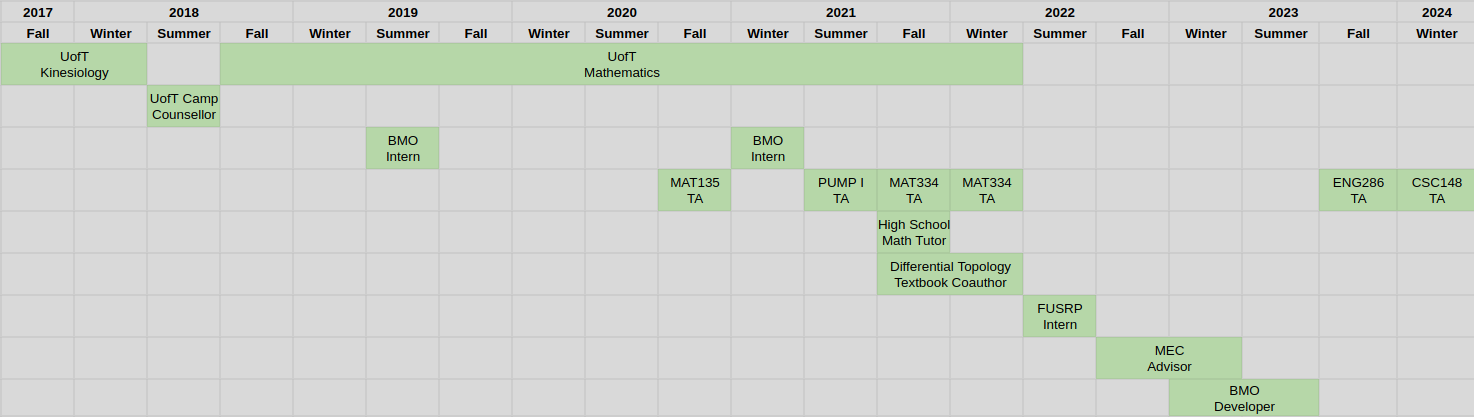
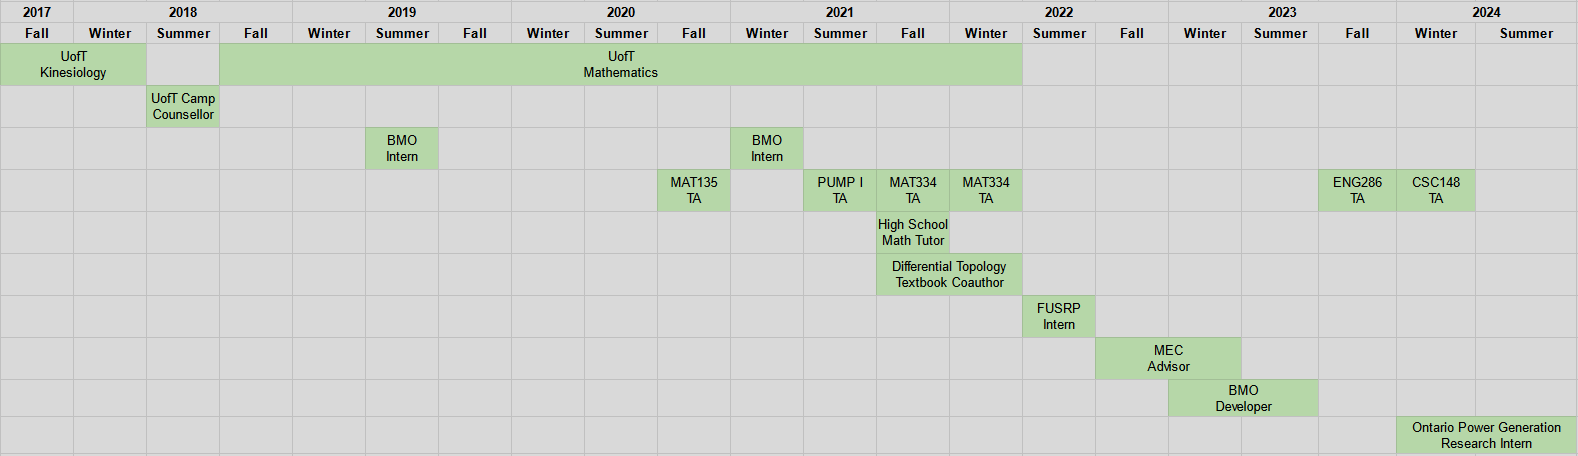
Add OPG

diff --git a/index.html b/index.html
@@ -120,6 +120,9 @@
 				<p>
 					On March 22, 2023, he again decided to stay in Toronto to study <a href="https://mscac.utoronto.ca/concentrations/applied-math">applied mathematics</a> at UofT in the MScAC program.
 				</p>
+				<p>
+					Miraculously, in the spring of 2024, he finally <a href="https://en.wikipedia.org/wiki/Leaving_the_nest">moved out</a> of his parents' basement. There, he has slowly developed a new branch of his <a href="https://en.wikipedia.org/wiki/Adulting">adulting</a> skill tree.
+				</p>
 				<div class="figure-container figure-center  container-background container-border" style="width:90%;">
 					<a href="images/family_tree.png"><img src="images/family_tree.png" alt="Nathan's family tree." class="figure-image"></a>
 					<figcaption class="figure-caption">Gurrin-Smith's family tree.</figcaption>
@@ -830,10 +833,10 @@
 				<h4 class="heading">MScAC (2023-2024)</h4>
 				<div class="figure-container figure-right container-background container-border" style="width:30%;">
 					<a href="images/mug_shot.jpg"><img src="images/mug_shot.jpg" alt="A mug shot of Nathan." class="figure-image"></a>
-					<figcaption class="figure-caption">Gurrin-Smith's MScAC mug shot .</figcaption>
+					<figcaption class="figure-caption">Gurrin-Smith's MScAC mug shot.</figcaption>
 				</div>
 				<p>
-					In the fall of 2023, Gurrin-Smith began his <a href="https://en.wikipedia.org/wiki/Master's_degree">master's degree</a> in the <a href="https://mscac.utoronto.ca/">Master of Science in Applied Computing</a> (MScAC) program at UofT. He took courses in <a href="https://en.wikipedia.org/wiki/Computer_graphics">computer graphics</a>, <a href="https://en.wikipedia.org/wiki/Computational_social_science">computational social science</a>, <a href="https://en.wikipedia.org/wiki/Deep_learning">deep learning</a>, and <a href="https://en.wikipedia.org/wiki/Mathematical_finance">mathematical finance</a>. While there, he worked as a TA in <a href="https://artsci.calendar.utoronto.ca/course/eng286h1">ENG286: Literature and Data</a> and <a href="https://artsci.calendar.utoronto.ca/course/csc148h1">CSC148: Introduction to Computer Science</a>. He got involved with the MScAC program by organizing the <a class="not-found internal-link" href="page_not_found.html?title=MScAC_Snacks_and_Board_Games">MScAC Snacks and Board Games</a> student-led event with his co-organizer <a class="not-found internal-link" href="page_not_found.html?title=Rob_Redelmeier">Rob Redelmeier</a>. He also worked on improving the working conditions of the TAs and CIs in the <a href="https://web.cs.toronto.edu/">department of computer science</a> (DCS) by becoming a DCS <a href="https://en.wikipedia.org/wiki/Union_representative">steward</a> for the TA/CI <a href="https://en.wikipedia.org/wiki/Trade_union">union</a>, <a href="https://en.wikipedia.org/wiki/CUPE_3902">CUPE 3902</a> <a href="https://cupe3902.org/unit-1/">Unit 1</a>.
+					In the fall of 2023, Gurrin-Smith began his <a href="https://en.wikipedia.org/wiki/Master's_degree">master's degree</a> in the <a href="https://mscac.utoronto.ca/">Master of Science in Applied Computing</a> (MScAC) program at UofT. He took courses in <a href="https://en.wikipedia.org/wiki/Computer_graphics">computer graphics</a>, <a href="https://en.wikipedia.org/wiki/Computational_social_science">computational social science</a>, <a href="https://en.wikipedia.org/wiki/Deep_learning">deep learning</a>, and <a href="https://en.wikipedia.org/wiki/Mathematical_finance">mathematical finance</a>. While there, he worked as a TA in <a href="https://artsci.calendar.utoronto.ca/course/eng286h1">ENG286: Literature and Data</a> and <a href="https://artsci.calendar.utoronto.ca/course/csc148h1">CSC148: Introduction to Computer Science</a>. He got involved with the MScAC program by organizing the <a class="not-found internal-link" href="page_not_found.html?title=MScAC_Snacks_and_Board_Games">MScAC Snacks and Board Games</a> student-led event with his co-organizer <a class="not-found internal-link" href="page_not_found.html?title=Rob_Redelmeier">Rob Redelmeier</a>. He also worked on improving the working conditions of the TAs and CIs in the <a href="https://web.cs.toronto.edu/">department of computer science</a> (DCS) by becoming a DCS <a href="https://en.wikipedia.org/wiki/Union_representative">steward</a> for the TA/CI <a href="https://en.wikipedia.org/wiki/Trade_union">union</a>, <a href="https://en.wikipedia.org/wiki/CUPE_3902">CUPE 3902</a> <a href="https://cupe3902.org/unit-1/">Unit 1</a>. In May 2024, he joined <a href="https://en.wikipedia.org/wiki/Ontario_Power_Generation">Ontario Power Generation</a> for his <a href="https://mscac.utoronto.ca/prospective-students/">applied research internship</a>.
 				</p>
 				<h5 class="heading">Courses [<input class="link-button" id="mscac-courses-button" type="button" value="show" onclick='collapse("mscac-courses-wrapper","mscac-courses-button", "hide", "show")'>]</h5>
 				<!-- {{{ MScAC Courses -->
@@ -902,6 +905,9 @@
 				</p>
 				<p>
 					After finishing school, Gurrin-Smith took a <a href="https://en.wikipedia.org/wiki/Gap_year">gap year</a>. At the start of this year, he researched mathematics in the Fields Undergraduate Summer Research Program at the <a href="https://en.wikipedia.org/wiki/Fields_Institute">Fields Institute</a>. There, he worked with <a href="https://physiology.utoronto.ca/faculty/maurizio-de-pitta">Professor Maurizio De Pitta&#768;</a>, graduate student <a href="https://underline.io/speakers/132339-giulio-bonifazi">Giulio Bonifazi</a>, and two other undergraduates: <a class="not-found internal-link" href="page_not_found.html?title=Bhavya">Bhavya</a> and <a class="not-found internal-link" href="page_not_found.html?title=Faisal">Faisal</a>, to <a href="https://en.wikipedia.org/wiki/Mathematical_model">model</a> <a href="https://en.wikipedia.org/wiki/Calcium">calcium</a> <a href="https://en.wikipedia.org/wiki/Diffusion">diffusion</a> in <a href="https://en.wikipedia.org/wiki/Astrocyte">astrocytes</a>. After this, he further explored his rock climbing interest and picked up a job selling climbing gear at Mountain Equipment Company. After a previous coworker at BMO reached out to him asking if he wanted a job, and realizing the impending tuition costs of the MScAC program, he left MEC to work at BMO as a Junior Non-Specialized Developer.
+				</p>
+				<p>
+					In May of 2024, Gurrin-Smith joined <a href="https://en.wikipedia.org/wiki/Ontario_Power_Generation">Ontario Power Generation</a> for his MScAC applied research internship. He is working in the <a href="https://www.opg.com/stories/opgs-advanced-inspection-and-maintenance-team-celebrates-50-years/">Advanced Inspection and Maintenance</a> department. There, he is researching how to determine <a href="https://en.wikipedia.org/wiki/Hydride">hydride</a> <a href="https://en.wikipedia.org/wiki/Concentration">concentration</a> in <a href="https://en.wikipedia.org/wiki/CANDU_reactor">CANDU</a> <a href="https://en.wikipedia.org/wiki/CANDU_reactor#Calandria_and_fuel_design">pressure tubes</a> from ultrasonic signal alone, in order to predict the presence of <a href="https://en.wikipedia.org/wiki/Hydrogen_embrittlement">hydrogen embrittlement</a>.
 				</p>
 
 				<div class="figure-container figure-center container-background container-border" style="width:80%;">
@@ -1002,7 +1008,7 @@
 					Additionally, every so often he gets back into <a href="https://en.wikipedia.org/wiki/Woodworking">woodworking</a>. This has produced some fun mini <a href="https://en.wikipedia.org/wiki/Project">projects</a>, as well as led to the famous Boat Incident.
 				</p>
 				<p>
-					At the start of 2024, Gurrin-Smith began learning <a href="https://en.wikipedia.org/wiki/Mandarin_Chinese">Mandarin Chinese</a> at the <a href="https://www.torontochineseacademy.com/">Toronto Chinese Academy</a>.
+					At the start of 2024, Gurrin-Smith began learning <a href="https://en.wikipedia.org/wiki/Mandarin_Chinese">Mandarin Chinese</a> at the <a href="https://www.torontochineseacademy.com/">Toronto Chinese Academy</a>. On May 23, 2024 he earned his <a class="internal-link not-found" href="page_not_found.html?title=General_Mandarin_Level_One_Module_One">General Mandarin Level One Module One</a> certificate.
 				</p>
 				<h4 class="heading">The Boat Incident</h4>
 				<p>
@@ -1042,6 +1048,9 @@
 				</div>
 				<p>
 					Gurrin-Smith has had a long-standing involvement in <a href="https://en.wikipedia.org/wiki/Sport">sport</a>. He began his foray into organized sport when he joined the TORCH swim club in 2008. There, he trained and competed for several years until he switched teams and joined the <a href="https://www.teamunify.com/team/canatsc/page/home">Toronto Swim Club</a>. While swimming there, he began <a href="https://en.wikipedia.org/wiki/Training">training</a> and <a href="https://en.wikipedia.org/wiki/Competition">competing</a> for triathlons. Due to a developing lack of interest in swimming, and difficult access to any youth triathlon teams in Toronto, he quit both in the fall of 2013 and decided to pursue distance running full-time at Neil McNeil. There, he competed for the full four years, but a persistent Achilles tendon injury forced him into early <a href="https://en.wikipedia.org/wiki/Retirement">retirement</a> after high school. In the fall of 2021 he re-entered the <a href="https://en.wikipedia.org/wiki/World">world</a> of sport by getting into bouldering at <a href="https://www.rockonclimbing.ca/">Rock On Climbing</a>, inspired after reading <a href="https://en.wikipedia.org/wiki/Into_Thin_Air">Into Thin Air</a> by <a href="https://en.wikipedia.org/wiki/Jon_Krakauer">Jon Krakauer</a>. 
+				</p>
+				<p>
+					In the summer of 2024, Gurrin-Smith entered the dangerous world of <a href="https://en.wikipedia.org/wiki/Organized_sport">organized sport</a>. He joined the <a href="">softball</a> team "<a class="internal-link not-found" href="page_not_found.html?title=The_Free_Agents">The Free Agents</a>" as part of the <a href="https://scarbororestaurant.hammertimehale.ca/">Scarborough Sunday Restaurant League</a>. He also enlisted into the volleyball team "<a class="internal-link not-found" href="page_not_found.html?title=Rough,_Course,_Irritating">Rough, Course, Irritating</a>" as part of the <a href="https://www.ashbridgesvolleyball.com/">Ashbridges Bay Beach Volleyball</a> league, in the <a class="internal-link not-found" href="page_not_found.html?title=Recreational_Coed_6s">Recreational Coed 6s</a> division.
 				</p>
 
 				<!-- Achievements -->
